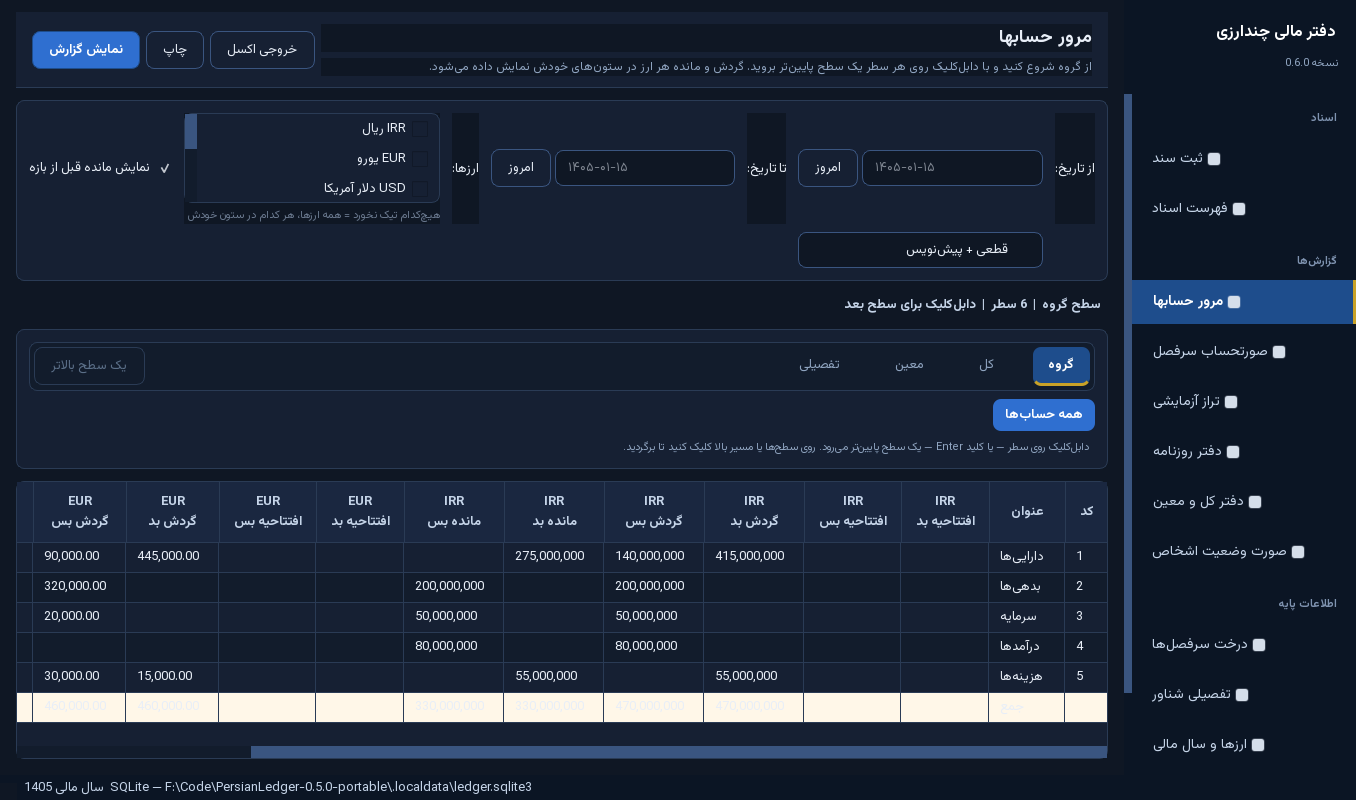
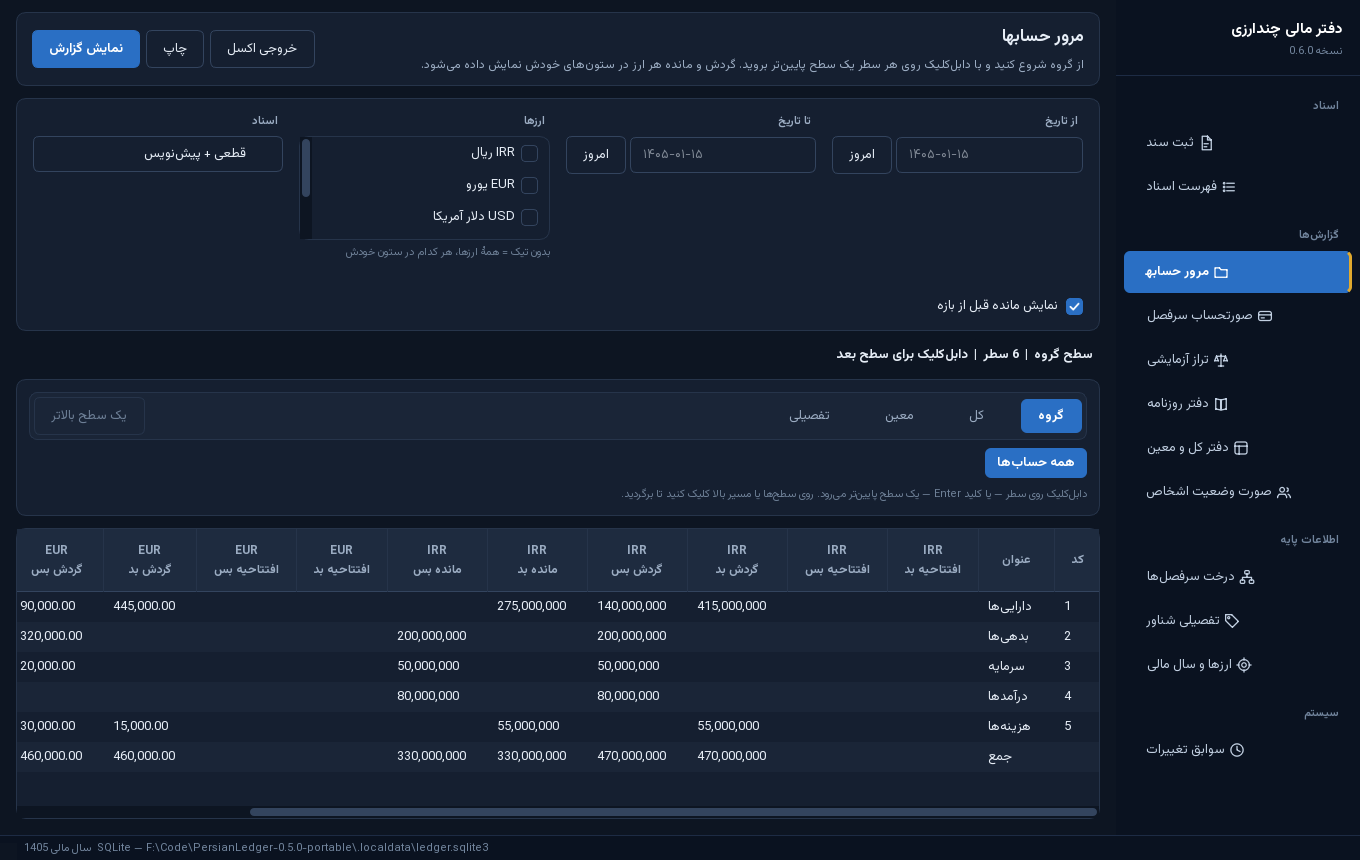
بهروزرسانی spec و اسکرینشات همهٔ صفحات در هر دو تم
spec دیگر فایل qss و آیکون SVG را کپی نمیکند چون استایل از palette ساخته
میشود و آیکونها کشیده میشوند؛ فقط فونتها بهعنوان داده باقی میمانند.
capture_ui حالا شش صفحه را در تم روشن و تیره میگیرد.

diff --git a/scripts/capture_ui.py b/scripts/capture_ui.py
@@ -1,4 +1,8 @@
-"""Capture after screenshots of the redesigned UI (offscreen)."""
+"""Capture screenshots of every page in both themes (offscreen).
+
+Run after a UI change to eyeball the whole app:
+    .venv/Scripts/python.exe scripts/capture_ui.py
+"""
 from __future__ import annotations
 
 import os
@@ -13,34 +17,38 @@ from PySide6.QtWidgets import QApplication  # noqa: E402
 
 from app import bootstrap, config as config_module  # noqa: E402
 from app.ui import theme  # noqa: E402
-from app.ui.main_window import MainWindow  # noqa: E402
 from app.ui.context import AppContext  # noqa: E402
+from app.ui.main_window import PAGES, MainWindow  # noqa: E402
+
+# The pages worth reviewing after a styling change, by nav key.
+PAGE_KEYS = ("entry", "list", "browse", "trial", "accounts", "settings")
 
 
 def main() -> int:
     out = ROOT / "docs" / "ui-before-after"
     out.mkdir(parents=True, exist_ok=True)
     data = ROOT / ".localdata"
-    cfg = AppConfig if False else config_module.AppConfig
     cfg = config_module.AppConfig(data_dir=data, sqlite_path=data / "ledger.sqlite3")
+
     app = QApplication([])
-    theme.apply(app, dark=False)
     startup = bootstrap.start(cfg, with_demo=True)
     ctx = AppContext(startup)
-    window = MainWindow(ctx)
-    window.resize(1280, 800)
-    window.show()
-    app.processEvents()
-    window.grab().save(str(out / "after-light-entry.png"))
-    window.go_to(2)
-    app.processEvents()
-    window.grab().save(str(out / "after-light-browse.png"))
-    theme.apply(app, dark=True)
-    app.processEvents()
-    window.grab().save(str(out / "after-dark-browse.png"))
-    window.go_to(0)
-    app.processEvents()
-    window.grab().save(str(out / "after-dark-entry.png"))
+
+    index_of = {key: i for i, (key, *_rest) in enumerate(PAGES)}
+    for dark in (False, True):
+        theme.apply(app, dark=dark)
+        window = MainWindow(ctx)
+        window.resize(1360, 860)
+        window.show()
+        app.processEvents()
+        mode = "dark" if dark else "light"
+        for key in PAGE_KEYS:
+            window.go_to(index_of[key])
+            app.processEvents()
+            window.grab().save(str(out / f"after-{mode}-{key}.png"))
+        # Deliberately not window.close(): closeEvent opens the "back up before
+        # exit?" dialog, which blocks forever with no one to click it.
+        window.hide()
     print(out)
     return 0
 

diff --git a/docs/ui-before-after/README.md b/docs/ui-before-after/README.md
@@ -1,9 +1,23 @@
-# قبل و بعد از بازطراحی UI
+# بازطراحی رابط کاربری
 
-## قبل (نسخهٔ کامپایلشده ۰٫۵٫۰)
-سایدبار سرمهای `#1f3350`، دکمهٔ طلایی `#f0a441`، بدون تم تیره، بدون آیکون SVG، جداول بدون هاور مشخص.
+فایلهای `after-<تم>-<صفحه>.png` با دستور زیر ساخته میشوند و همهٔ صفحات را در هر دو تم میگیرند:
+
+```
+.venv/Scripts/python.exe scripts/capture_ui.py
+```
+
+## قبل (نسخهٔ کامپایلشدهٔ ۰٫۵٫۰)
+سایدبار سرمهای `#1f3350`، دکمهٔ طلایی `#f0a441`، بدون تم تیره، جداول بدون هاور مشخص.
 
 ## بعد (۰٫۶٫۰)
-سیستم طراحی یکدست، Vazirmatn، RTL، تم روشن/تیره، آیکون SVG سایدبار، جداول راهراه با هاور، اعداد راستچین با جداکنندهٔ هزارگان.
 
-فایلهای `after-*.png` با `python scripts/capture_ui.py` گرفته میشوند.
+- **منبع واحد رنگ:** همهٔ رنگها در `app/ui/palette.py` تعریف میشوند و `app/ui/stylesheet.py` استایلشیت هر دو تم را از روی همان میسازد، تا قانونی در تم روشن اضافه و در تم تیره فراموش نشود.
+- **آیکونها:** با QPainter کشیده میشوند (`app/ui/icons.py`). بستهٔ PySide6 این پروژه ماژول QtSvg ندارد، بنابراین آیکونهای SVG قبلی اصلاً رندر نمیشدند و بهجایشان مربع خالی دیده میشد.
+- **فرمها:** برچسب بالای فیلد (`app/ui/widgets/fields.py`) بهجای ستون جداگانهٔ برچسب؛ فیلترهای گزارش در یک شبکهٔ چهارستونی میچینند و هر خانه از بالا تراز میشود، پس ویجت بلند، همسایههای کوتاهش را جابهجا نمیکند.
+- **جداول:** ردیفهای راهراه، هاور، اعداد راستچین با جداکنندهٔ هزارگان، بدون خطوط شبکهای پررنگ. ستونها به اندازهٔ محتوا (سقف ۳۰۰px برای شرح) تا ستون بیشتری در صفحه جا شود.
+- **تم تیره** با سوییچ در تنظیمات؛ آیکونهای سایدبار هنگام تعویض تم دوباره رنگ میشوند.
+
+### نکتههای راستبهچپ که در این دور رفع شد
+- `letter-spacing` روی متن فارسی حذف شد؛ خط فارسی پیوسته است و فاصلهٔ حروف اتصالها را میشکند.
+- عنوان `QGroupBox` با `subcontrol-position` لنگر شد؛ جابهجایی با `right:` در حالت راستبهچپ عنوان را از قاب بیرون میبرد و حروف اولش بریده میشد («ظاهر» → «اهر»).
+- درخت سرفصلها: ستون «کد / عنوان» کشیده میشود؛ پیشفرض Qt ستون آخر را کش میداد و عنوان حسابها به «۱...» خلاصه میشد.
